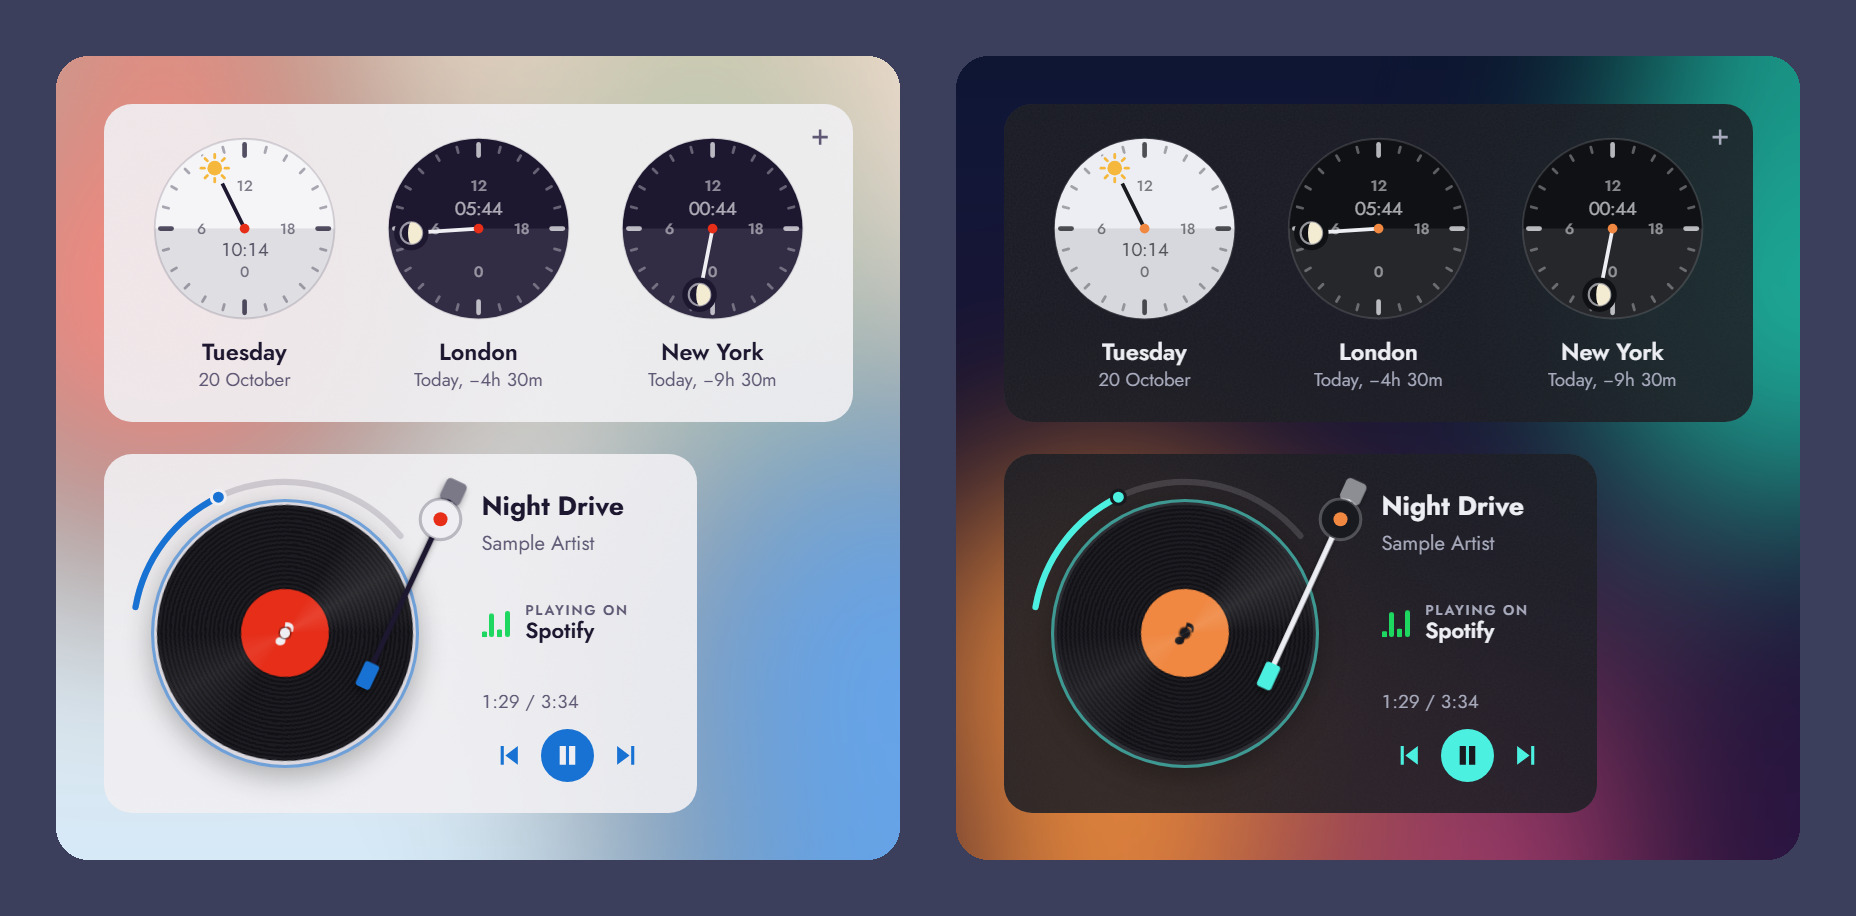
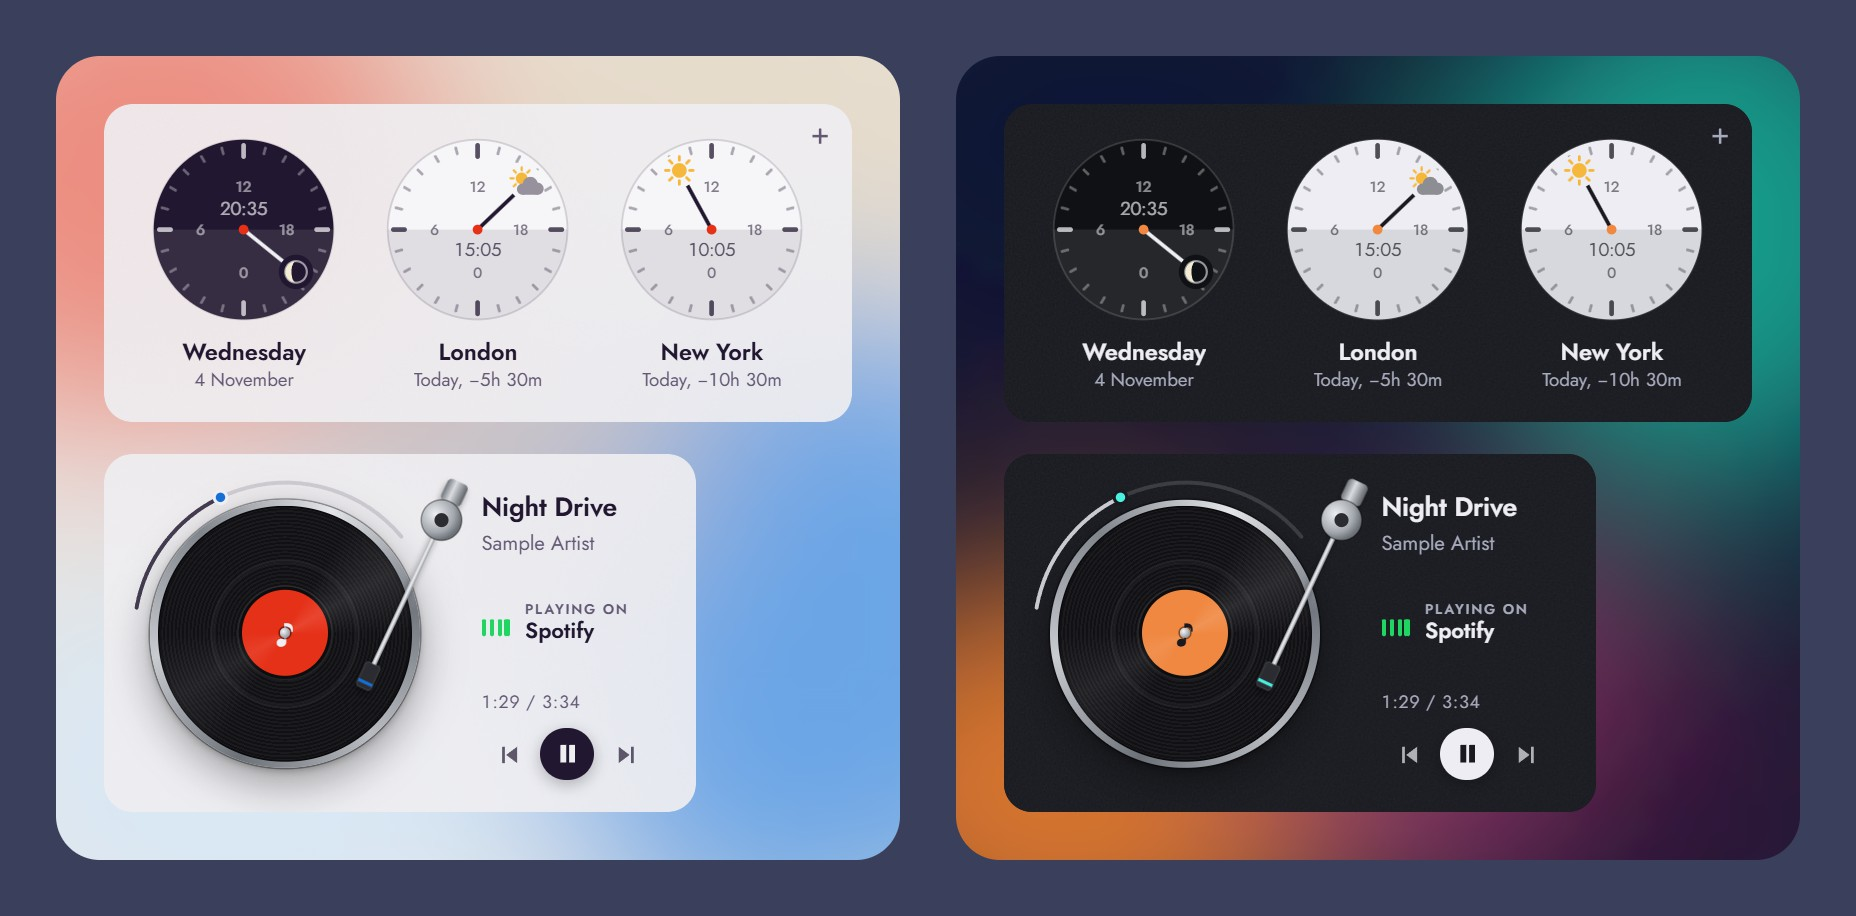
README: pictures in the current design, and one of the lyrics widget
The preview and the themes picture show the metal turntable from 0.8.0, the settings picture has the Spotify lyrics row, and a new picture shows the lyrics widget next to the turntable. The text mentions lyrics, scrolling and tapping a line, the 4 MB installer, and what LRCLIB receives. ?pos= in the browser preview holds the sample song still, so a lyrics picture always shows the same line.

diff --git a/src/api.js b/src/api.js
@@ -122,6 +122,8 @@ export function invoke(command, args) {
 
 // ---- Sample data for browser previews ----
 let startedAt = Date.now(); // `let` so the sample can "seek"
+// ?pos=86 holds the sample song paused at 86 s, so a social image (social/poster.html) always shows the same lyric line.
+const heldAt = Number(new URLSearchParams(location.search).get("pos")) * 1000 || 0;
 const dayKey = (iso) => iso.slice(0, 10);
 function sample(command, args) {
   if (command === "media_seek") startedAt = Date.now() - (args.positionMs - 83000);
@@ -132,7 +134,7 @@ function sample(command, args) {
   const data = {
     media_now_playing: {
       title: "Night Drive", artist: "Sample Artist", album: "Preview", app: "Spotify.exe",
-      playing: true, positionMs: 83000 + (Date.now() - startedAt), durationMs: 214000, canSeek: true,
+      playing: !heldAt, positionMs: heldAt || 83000 + (Date.now() - startedAt), durationMs: 214000, canSeek: true,
     },
     media_thumbnail: null,
     media_control: null,

diff --git a/README.md b/README.md
@@ -1,12 +1,12 @@
 # Desk Widgets
 
-Desktop widgets for Windows: an analog world clock, now playing, weather, and Google Calendar, themed from your wallpaper.
+Desktop widgets for Windows: an analog world clock, now playing with Spotify lyrics, weather, and Google Calendar, themed from your wallpaper.
 
-![Preview](preview.png)
+![The clock with three cities, the turntable, the weather and the calendar](preview.png)
 
 ## Download
 
-**[⬇ Download the latest version](https://github.com/sevensixteeeen/desk-widgets/releases/latest)**. Under **Assets**, pick the file ending in `x64-setup.exe` (about 3 MB).
+**[⬇ Download the latest version](https://github.com/sevensixteeeen/desk-widgets/releases/latest)**. Under **Assets**, pick the file ending in `x64-setup.exe` (about 4 MB).
 
 1. Run the installer. Windows shows **"Windows protected your PC"** because the app isn't code-signed; click **More info → Run anyway**.
 2. Open **Desk Widgets** from the Start menu. The widgets appear on your desktop, behind your other windows.
@@ -14,7 +14,7 @@ Desktop widgets for Windows: an analog world clock, now playing, weather, and Go
 
 **Needs:** 64-bit Windows 10 or 11. Nothing else to install.
 
-**Works right away:** clock, now playing and weather (type your city once). The **calendar** needs a one-time Google setup, described [below](#connect-google-calendar-optional).
+**Works right away:** clock, now playing, lyrics and weather (type your city once). The **calendar** needs a one-time Google setup, described [below](#connect-google-calendar-optional).
 
 **Updates:** from 0.6.0 on, the app checks for new versions by itself and asks before installing one. Older versions need this one last manual install; your widgets keep their positions, sizes and clocks.
 
@@ -45,6 +45,10 @@ Desktop widgets for Windows: an analog world clock, now playing, weather, and Go
 
 ![Clock and now playing themed from a light wallpaper (left) and a dark wallpaper (right)](screenshots/themes.jpg)
 
+**Lyrics, following along.** The lyrics widget next to the turntable, playing the same song: the line being sung is bright, and the lines move up as the song goes on. Scroll to look back or ahead, and tap any line to play the song from there.
+
+![The turntable and the lyrics widget playing the same song, with the line being sung highlighted](screenshots/lyrics.jpg)
+
 **Settings.** Right-click the tray icon → **Settings…**. Changes apply right away, and the window follows your wallpaper too.
 
 ![The settings window in a light theme and a dark theme](screenshots/settings.png)
@@ -55,7 +59,8 @@ Desktop widgets for Windows: an analog world clock, now playing, weather, and Go
 - **Resize a widget:** drag the round grip in its bottom-right corner (it appears when you point at the widget, and for a few seconds after you unlock) to set its width and height. Hold **Shift** while dragging, or hold **Ctrl** and scroll the mouse wheel over it, to make it bigger or smaller all over. Double-click the grip to go back to the default size. Locked widgets can't be resized: unlock with **Ctrl+Alt+L**.
 - **Lock them in place:** tray → **Lock widgets**, or **Ctrl+Alt+L** from anywhere.
 - **Hide a widget:** tray → **Show widgets** → untick it.
-- **Spotify lyrics:** tray → **Show widgets** → tick **Lyrics** for the lyrics widget, and/or Settings → Now playing → **Spotify lyrics** for the current line on the turntable. Only Spotify songs are looked up; LRCLIB sees the song's title and artist.
+- **Spotify lyrics:** tray → **Show widgets** → tick **Lyrics** for the lyrics widget, and/or Settings → Now playing → **Spotify lyrics** for the current line on the turntable. Only Spotify songs are looked up; LRCLIB sees the song's title, artist, album and length.
+- **Scroll the lyrics, or play from a line:** scroll with the mouse wheel or touchpad (or drag the lines while the widgets are locked); a few seconds after you stop, it goes back to the line being sung. Tap a line and Spotify jumps there, and starts playing if it was paused.
 - **Change settings:** tray → **Settings…**. Only the widgets a change affects reload; **Reset to defaults** undoes everything.
 - **Jump to a point in the song:** click or drag the arc around the record.
 - **Change the weather city:** click the city name and type a new one. If several places share the name, pick yours from the list, which shows each one's district, state and country.
@@ -78,7 +83,7 @@ To stay signed in for more than 7 days, publish the app from the **Audience** pa
 
 ## Your data
 
-Everything stays on your PC. The Google client file and sign-in token live in `%APPDATA%\com.deskwidgets.app\` and are never part of this repo. Calendar events go straight between your PC and Google. The weather widget sends only the city name you type to Open-Meteo.
+Everything stays on your PC. The Google client file and sign-in token live in `%APPDATA%\com.deskwidgets.app\` and are never part of this repo. Calendar events go straight between your PC and Google. The weather widget sends only the city name you type to Open-Meteo. With lyrics turned on, the title, artist, album and length of the song playing on Spotify go to LRCLIB to find its words.
 
 ## For developers
 

diff --git a/PROJECT_NOTES.md b/PROJECT_NOTES.md
@@ -479,7 +479,7 @@ gh secret set TAURI_SIGNING_PRIVATE_KEY -R sevensixteeeen/desk-widgets --body $k
 
 Don't run `npm run tauri dev` while the installed app is open, or you'll get two sets of widgets.
 
-**README images** (`preview.png`, `screenshots/`) are the browser preview with its sample data, not a real desktop: serve `src/` (`python -m http.server`), frame `index.html?w=clock&dial=…&zones=…&sky=…&wp=…` and `settings.html?wp=…` at their real sizes (design size × 0.78), and screenshot at 2× in headless Edge (`--force-device-scale-factor=2 --screenshot`). `?wp=` themes them from any image; the ones in `screenshots/themes.jpg` are generated gradients, not someone's artwork.
+**README images** (`preview.png`, `screenshots/`) are the browser preview with its sample data, not a real desktop: serve `src/` (`python -m http.server`), frame `index.html?w=clock&dial=…&zones=…&sky=…&wp=…` and `settings.html?wp=…` at their real sizes (design size × 0.78), and screenshot at 2× in headless Edge (`--force-device-scale-factor=2 --screenshot`). `?wp=` themes them from any image; the ones in `screenshots/themes.jpg` are generated gradients, not someone's artwork. `?pos=86` holds the sample song paused at 86 s (`api.js`), so a lyrics picture always shows the same line; without it the song plays on from 1:23 and the line depends on when the shot is taken.
 
 ---
 
@@ -659,6 +659,7 @@ Options if you want it lower:
 | 2026-11-02 | v0.8.1: security hardening, lyrics sooner when LRCLIB is busy; the first release built with pinned actions |
 | 2026-11-03 | Lyrics widget: scroll with the wheel, touchpad, or a drag while locked (back to following after 4 s); tap a line to play the song from there |
 | 2026-11-03 | v0.8.2: scroll the lyrics, tap a line to play from there |
+| 2026-11-04 | README: new pictures in the current design (the metal turntable, settings with Spotify lyrics) and one of the lyrics widget; `?pos=` holds the preview's sample song still |
 
 ## 20. Ideas for later
 
